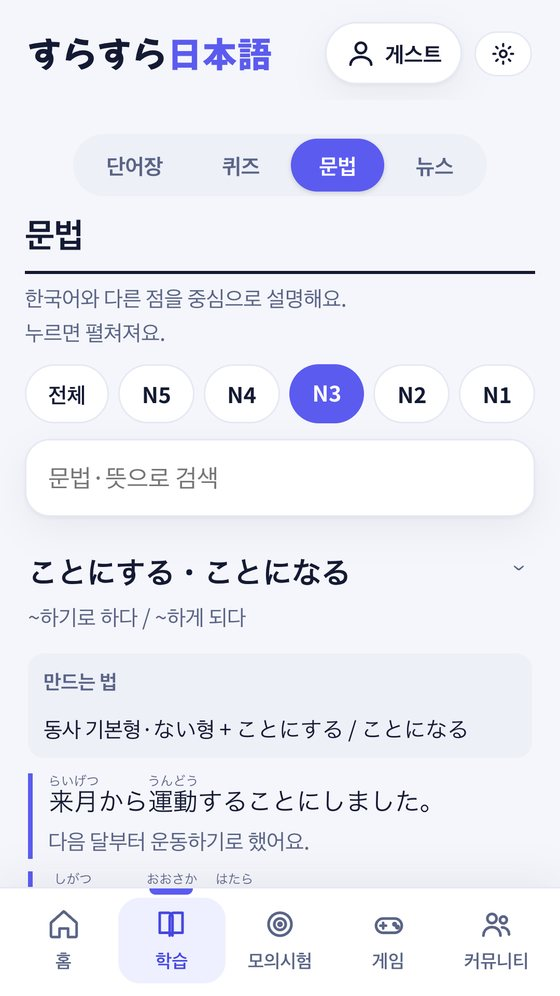
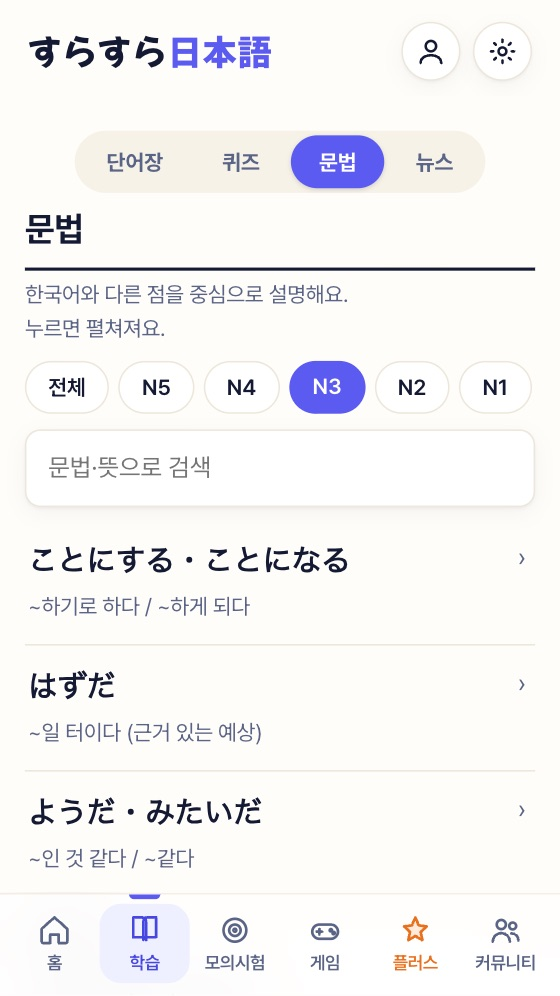
스튜디오 사이트: 앱 화면 7장을 현재 앱으로 교체(D-day 칩 제외), JLPT 모의시험·술술 플러스 기능 소개 추가, 앱 아이콘 교체

diff --git a/studio-site/index.html b/studio-site/index.html
@@ -63,6 +63,8 @@ h1 em{font-style:normal;color:var(--y)}
 .prod .txt p{font-size:clamp(17px,1.5vw,21px);line-height:1.7;color:#34333b;max-width:480px}
 .prod .txt .btns{margin-top:30px;display:flex;gap:12px;flex-wrap:wrap}
 .btn.k{border-color:var(--ink);color:var(--ink)}.btn.k.f{background:var(--ink);color:#fff}.btn.k.f:hover{background:var(--red);border-color:var(--red)}.btn.k:not(.f):hover{background:var(--ink);color:#fff}
+.plushd{display:flex;align-items:center;gap:14px;margin-top:clamp(60px,8vw,110px)}.plushd h3{font-size:clamp(30px,4vw,56px);font-weight:900;letter-spacing:-.04em}
+.plusdesc{margin:14px 0 0;max-width:620px;color:#4a4951;line-height:1.7;font-size:16px}.plusf{margin-top:28px}
 .feat{margin-top:clamp(70px,9vw,130px);border-top:2px solid var(--ink)}
 .feat li{list-style:none;display:grid;grid-template-columns:90px 1fr 1.2fr;gap:20px;padding:30px 0;border-bottom:1px solid rgba(10,10,15,.25);align-items:baseline;transition:padding .3s,background .3s}
 .feat li:hover{padding-left:18px;background:rgba(255,194,26,.35)}
@@ -165,7 +167,20 @@ h1 .ln{display:block;padding-bottom:.08em}
   <li><span class="n">01</span><h3>단어장 N5–N1</h3><p>급수별 단어를 한자 읽기, 예문, 음성과 함께 익힙니다. 틀린 단어는 오답 노트로 모아 다시 풀 수 있습니다.</p></li>
   <li><span class="n">02</span><h3>문법 · 경어</h3><p>문법 150여 개를 예문과 함께 정리했습니다. 존경어·겸양어는 같은 뜻끼리 나란히 놓고 비교하며 익힙니다.</p></li>
   <li><span class="n">03</span><h3>퀴즈 · 게임</h3><p>뜻 고르기, 짝 맞추기, 워들, 끝말잇기. 지루해지기 전에 한 판 더 하고 싶어지는 공부입니다.</p></li>
-  <li><span class="n">04</span><h3>처음 시작하는 사용자를 위해</h3><p>히라가나·가타카나 입문과 글자 맞추기. 아무것도 몰라도 바로 따라 할 수 있습니다.</p></li>
+  <li><span class="n">04</span><h3>JLPT 모의시험</h3><p>N5부터 N1까지 문자·어휘, 문법, 독해, 청해를 실제 시험 유형으로 풀어 봅니다. 연습 모드는 계속 무료입니다.</p></li>
+  <li><span class="n">05</span><h3>처음 시작하는 사용자를 위해</h3><p>히라가나·가타카나 입문과 글자 맞추기. 아무것도 몰라도 바로 따라 할 수 있습니다.</p></li>
+ </ul>
+
+ <div class="plushd rv"><h3>술술 플러스</h3><span class="tagpill">준비 중</span></div>
+ <p class="plusdesc">단어장·퀴즈·게임·문법·뉴스·모의시험은 계속 무료입니다. 플러스는 JLPT 합격 준비를 더 깊게 도와주는 선택 기능이며, 결제 기능은 현재 준비 중입니다.</p>
+ <ul class="feat sg plusf">
+  <li><span class="n">P1</span><h3>합격 코치</h3><p>시험 날짜를 정하면 하루에 몇 개씩 익히면 되는지 계산해 줍니다.</p></li>
+  <li><span class="n">P2</span><h3>오늘의 맞춤 플랜</h3><p>약점·복습·새 단어를 시험까지 남은 날에 맞춰 10분 분량으로 짜 줍니다.</p></li>
+  <li><span class="n">P3</span><h3>맞춤 복습 무제한</h3><p>내 약점 단어만 골라 연습하고, 급수별·품사별 약점도 확인합니다.</p></li>
+  <li><span class="n">P4</span><h3>영역별 분석</h3><p>모의시험에서 어디가 약한지 알려 주고, 약한 영역만 집중 연습합니다.</p></li>
+  <li><span class="n">P5</span><h3>직전 총정리</h3><p>자주 틀린 단어만 모아 20문제로 마지막 점검을 합니다.</p></li>
+  <li><span class="n">P6</span><h3>주간 학습 리포트</h3><p>이번 주 정답률 변화와 약점 TOP, 다음 주 목표를 알려 줍니다.</p></li>
+  <li><span class="n">P7</span><h3>실전 시험지 모드</h3><p>실제 시험 시간표대로 표지·교시·제한 시간·종이 넘기기까지, 모의시험을 시험지로 풉니다.</p></li>
  </ul>
  <div class="rail sg">
   <figure><div class="ph"><img src="img/home.jpg" alt="홈 화면" loading="lazy"></div><figcaption><span>01</span>오늘의 학습</figcaption></figure>
